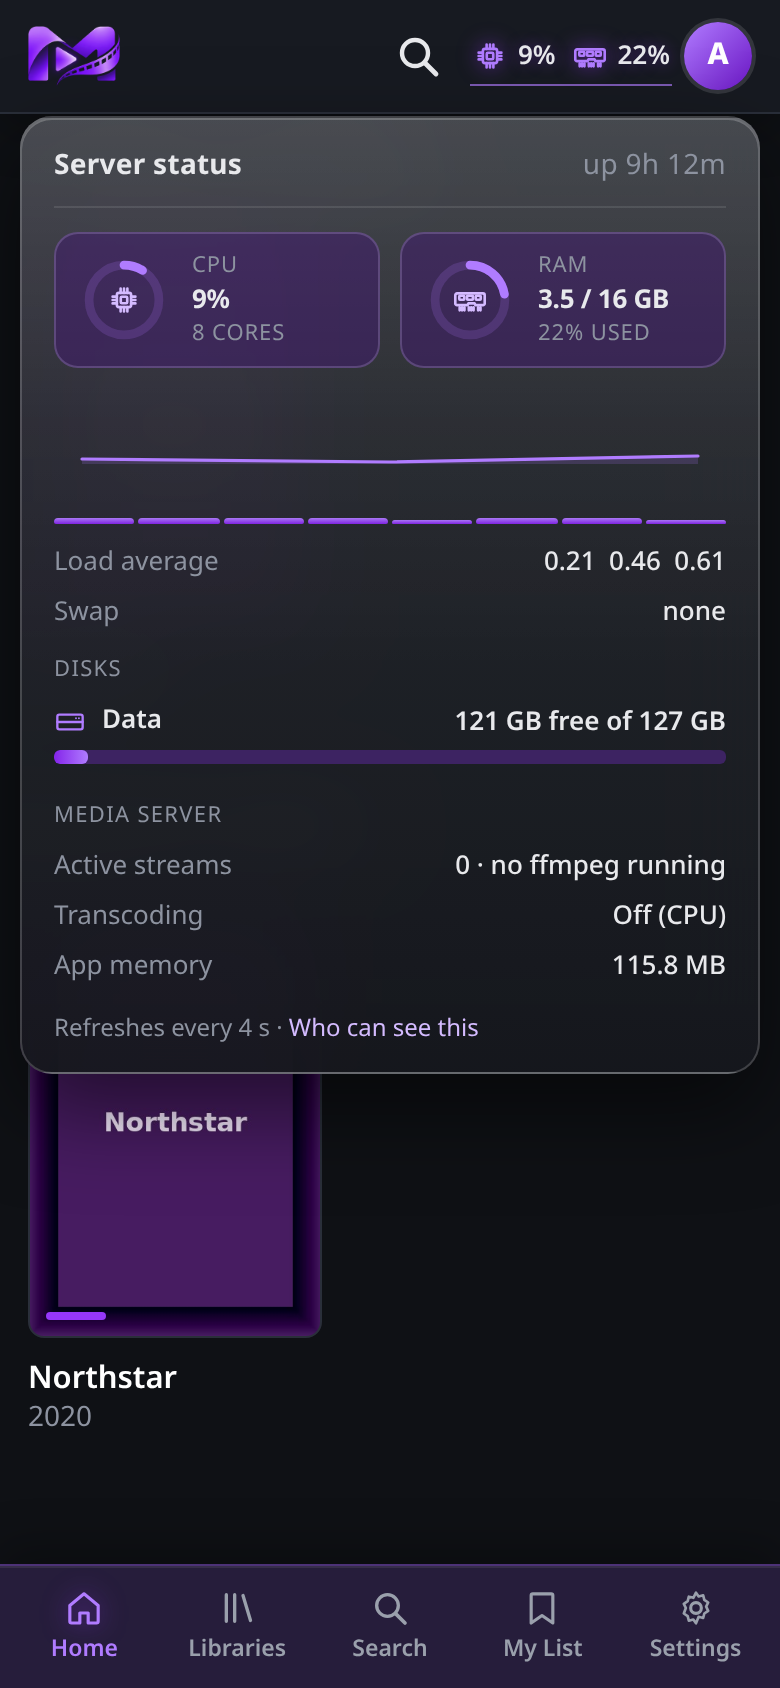
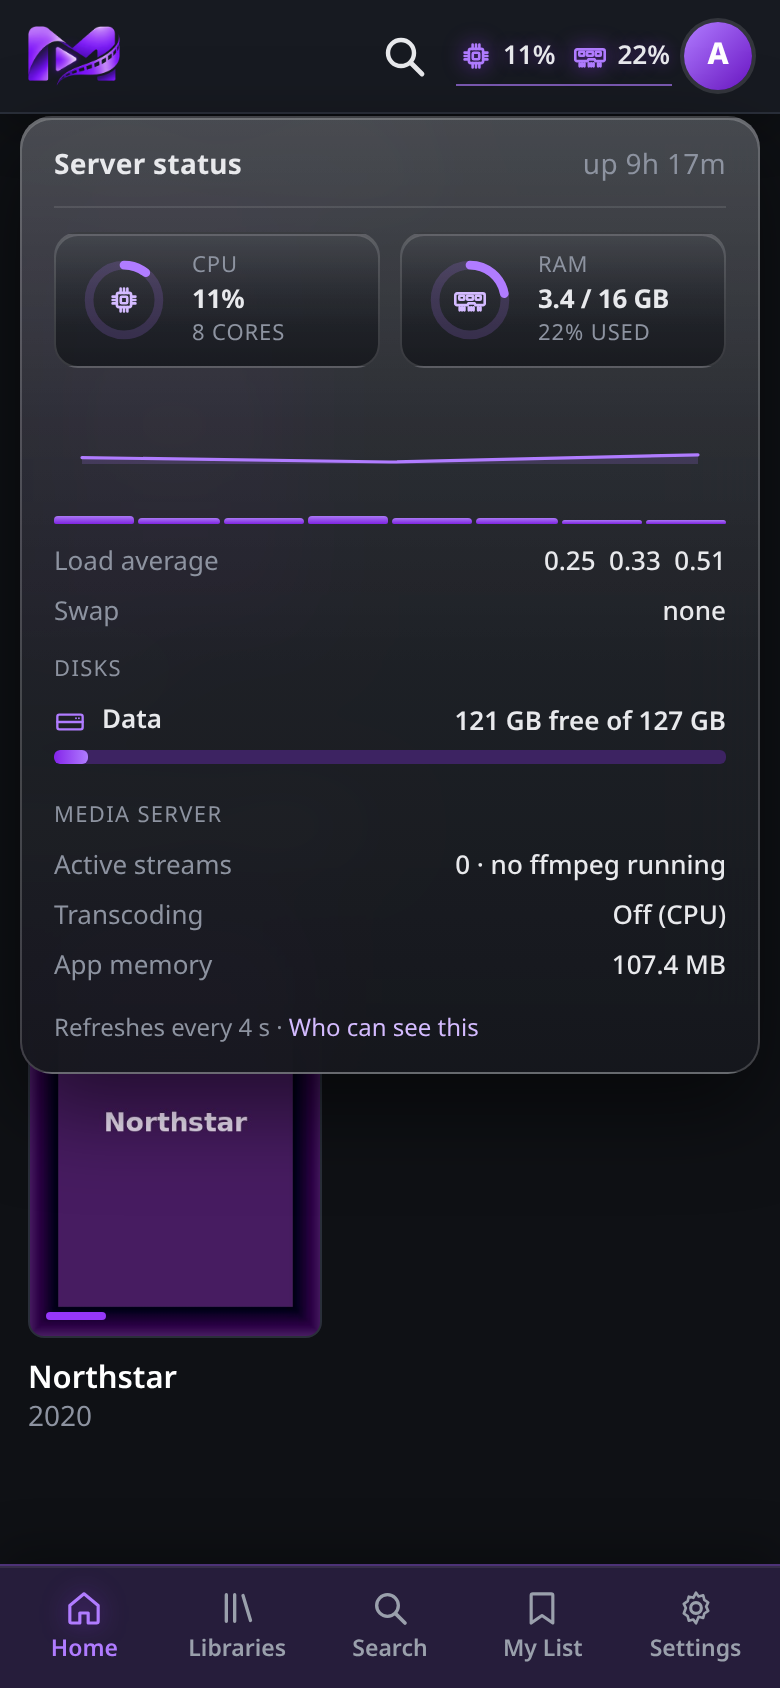
Movinite 2.5.1: glossy gray CPU and RAM tiles in the status panel
The status-panel gauge tiles use the same charcoal-to-graphite gloss as the
dropdowns. Rings, dots and usage bars keep their purple accents.

diff --git a/server/app/static/style.css b/server/app/static/style.css
@@ -515,7 +515,8 @@ b.warn,.ss-spark.warn{color:var(--warn)} b.bad,.ss-spark.bad{color:var(--bad)}
 .ss-h{display:flex;justify-content:space-between;align-items:baseline;margin:0 0 12px;padding:0 0 10px;font-size:14px;letter-spacing:.01em;border-bottom:1px solid var(--pop-divider)}
 .ss-gauges{display:grid;grid-template-columns:1fr 1fr;gap:10px;margin:0 0 12px}
 .ss-gauge{display:flex;align-items:center;gap:10px;min-width:0;padding:8px 10px;border-radius:12px;
-  background:color-mix(in srgb, rgba(20,10,36,.45) 70%, var(--acc) 18%);border:1px solid color-mix(in srgb, var(--acc2) 22%, transparent)}
+  background:linear-gradient(180deg,rgba(255,255,255,.10) 0%,rgba(255,255,255,.03) 40%,transparent 70%),linear-gradient(180deg,rgba(43,46,53,.78) 0%,rgba(22,24,29,.88) 100%);
+  border:1px solid rgba(255,255,255,.14);box-shadow:inset 0 1px 0 rgba(255,255,255,.16)}
 .ss-gauge .ss-ring-wrap{flex:none}
 .ss-gauge .ss-g-txt{display:flex;flex-direction:column;gap:1px;min-width:0}
 .ss-gauge .ss-g-txt span{color:var(--muted);font-size:11px;text-transform:uppercase;letter-spacing:.04em}

diff --git a/server/tests/test_v251.py b/server/tests/test_v251.py
@@ -65,6 +65,27 @@ def test_glossy_gray_tokens():
           "the TV slide-out keeps its own panel (it is not this component)")
 
 
+def test_gauge_tiles_are_gray():
+    i = CSS.index(".ss-gauge{")
+    chunk = CSS[i:i + 500]
+    check("43,46,53" in chunk and "22,24,29" in chunk,
+          "CPU and RAM tiles use the same charcoal-to-graphite fill")
+    check("rgba(20,10,36" not in chunk and "var(--acc)" not in chunk.split(".ss-gauge")[1][:280],
+          "the purple-tinted tile backgrounds are gone")
+    check("255,255,255" in chunk,
+          "the tiles have a light sheen or light border")
+    # rings, core bars and usage bars keep the purple accent
+    check("color:var(--acc-text)" in CSS[CSS.index(".ss-ring-wrap{position"):CSS.index(".ss-ring-wrap{position") + 120],
+          "the gauge rings stay purple")
+    bar = CSS[CSS.index(".ss-bar i{display:block;height:100%;background:linear-gradient"):]
+    bar = bar[:200]
+    check("var(--acc-fill)" in bar or "var(--acc-text)" in bar,
+          "usage bars keep the purple accent")
+    check("var(--acc-text)" in CSS[CSS.index(".ss-cores i{"):CSS.index(".ss-cores i{") + 200]
+          or "var(--acc-fill)" in CSS[CSS.index(".ss-cores i{"):CSS.index(".ss-cores i{") + 200],
+          "the load bars keep the purple accent")
+
+
 def test_exclusive_open_kept():
     check("function closeSiblingPops(" in JS, "closeSiblingPops is defined")
     sys = JS.split("function setSysOpen(")[1].split("function stopSysstat")[0]
@@ -90,6 +111,7 @@ if __name__ == "__main__":
     print("2.5.1 glossy gray popovers")
     test_version_and_schema()
     test_glossy_gray_tokens()
+    test_gauge_tiles_are_gray()
     test_exclusive_open_kept()
     test_docs()
     print("all ok")

diff --git a/server/README.md b/server/README.md
@@ -207,7 +207,7 @@ On a television, Up from the first row reaches the header. Left and Right move a
 
 **2.1.1:** a signed-out television shows only the phone-code (or password) sign-in screen, not the home chrome. Sign-in codes are reused until they expire (10 new codes per address per 10 minutes). The top bar uses the same dark color as the side menu.
 
-**2.5.1:** the profile menu and the server status popup (and the other page dropdowns that share the same chrome) use a glossy charcoal-to-graphite style, with a light sheen at the top, a frosted blur, and light-gray row hovers. The avatar and status dots keep their purple accents. Opening one menu still closes the others. No schema change and no new Android app. **2.5:** titles you play from a shared server appear in Continue watching and My List with their poster and resume position (web, phone and TV). If you also have a local copy, the two are one card. If the other server is offline, the card stays marked Offline and Play shows a message instead of an error. Schema 15; no new Android app. **2.4.4:** on phones, Play uses the in-page web player again (the same tap-to-show controls as before 2.4); the native ExoPlayer stays on Android TV. No server change. **2.4.3:** the native Android player can play again (HEVC fMP4 segments were crashing the server); on a source error it retries H.264 and then the in-page player. **2.4.2:** the profile menu and the server status popup (and the other page dropdowns) share one classy purple glass style, and opening one closes the other. **2.4.1:** the in-page player stats overlay shortens the GPU name (for example Arc A310) so Encoder no longer runs over Dropped on a phone, and the box is more see-through so more of the picture shows through. No new app is needed. **2.4:** the Android TV app plays video in a native ExoPlayer (not the web page). It reports real decoder and display capabilities so 4K HEVC, HDR and surround can Direct Play when the television supports them, and the on-screen controls include skip intro, seek thumbnails, Up Next, and audio / subtitle menus. The 2.0.2 app still works against this server, with the in-page player. **2.3:** Skip Intro and Skip Credits buttons appear when an opening or ending is detected (optional auto-skip in Settings > Account). Image subtitles (PGS / VobSub) are burned in on a transcode when you pick them; text subtitles stay soft. **2.2:** playback starts immediately when remux is not ready, 5.1 audio is kept, the seek bar can show thumbnails, an Up Next card counts down before the next episode, and a 4K television is not capped at 1080p just because the web view reports 1920×1080. HDR to SDR tone mapping on the GPU is available in Settings (off by default until it is checked on a real HDR film). The 2.0.2 Android TV app works as-is. **2.1.4:** the first Left from a row focuses the slim left rail; a second Left opens the slide-out. The For You / Recently Added / Libraries tabs and the rail icons take a visible focus and can be selected with the remote. Hero backdrops wait a beat and crossfade, and home-screen key handling is faster. Desktop and phone are unchanged, and opening a title still focuses Resume or Play at the top. **2.1.3:** the TV waits about 3 seconds between approval checks, backs off instead of showing “Too many checks,” and stops checking when you open the password form. The check limit is per code and address, and is large enough for a 10-minute code. **2.1.2:** the web header (search, poster sounds, server status, account button) is hidden on a television. Desktop and phone keep it. Search, Sign out and Settings stay in the slide-out menu. The TV tab bar is transparent over the backdrop. Moving the remote onto a tab or a menu item opens that view after a short pause (Sign out still needs OK). Opening a title focuses Resume or Play with the page scrolled to the top.
+**2.5.1:** the profile menu and the server status popup (and the other page dropdowns that share the same chrome) use a glossy charcoal-to-graphite style, with a light sheen at the top, a frosted blur, and light-gray row hovers. The CPU and RAM tiles in the status panel use the same glossy gray; the avatar, status dots, rings and usage bars keep their purple accents. Opening one menu still closes the others. No schema change and no new Android app. **2.5:** titles you play from a shared server appear in Continue watching and My List with their poster and resume position (web, phone and TV). If you also have a local copy, the two are one card. If the other server is offline, the card stays marked Offline and Play shows a message instead of an error. Schema 15; no new Android app. **2.4.4:** on phones, Play uses the in-page web player again (the same tap-to-show controls as before 2.4); the native ExoPlayer stays on Android TV. No server change. **2.4.3:** the native Android player can play again (HEVC fMP4 segments were crashing the server); on a source error it retries H.264 and then the in-page player. **2.4.2:** the profile menu and the server status popup (and the other page dropdowns) share one classy purple glass style, and opening one closes the other. **2.4.1:** the in-page player stats overlay shortens the GPU name (for example Arc A310) so Encoder no longer runs over Dropped on a phone, and the box is more see-through so more of the picture shows through. No new app is needed. **2.4:** the Android TV app plays video in a native ExoPlayer (not the web page). It reports real decoder and display capabilities so 4K HEVC, HDR and surround can Direct Play when the television supports them, and the on-screen controls include skip intro, seek thumbnails, Up Next, and audio / subtitle menus. The 2.0.2 app still works against this server, with the in-page player. **2.3:** Skip Intro and Skip Credits buttons appear when an opening or ending is detected (optional auto-skip in Settings > Account). Image subtitles (PGS / VobSub) are burned in on a transcode when you pick them; text subtitles stay soft. **2.2:** playback starts immediately when remux is not ready, 5.1 audio is kept, the seek bar can show thumbnails, an Up Next card counts down before the next episode, and a 4K television is not capped at 1080p just because the web view reports 1920×1080. HDR to SDR tone mapping on the GPU is available in Settings (off by default until it is checked on a real HDR film). The 2.0.2 Android TV app works as-is. **2.1.4:** the first Left from a row focuses the slim left rail; a second Left opens the slide-out. The For You / Recently Added / Libraries tabs and the rail icons take a visible focus and can be selected with the remote. Hero backdrops wait a beat and crossfade, and home-screen key handling is faster. Desktop and phone are unchanged, and opening a title still focuses Resume or Play at the top. **2.1.3:** the TV waits about 3 seconds between approval checks, backs off instead of showing “Too many checks,” and stops checking when you open the password form. The check limit is per code and address, and is large enough for a 10-minute code. **2.1.2:** the web header (search, poster sounds, server status, account button) is hidden on a television. Desktop and phone keep it. Search, Sign out and Settings stay in the slide-out menu. The TV tab bar is transparent over the backdrop. Moving the remote onto a tab or a menu item opens that view after a short pause (Sign out still needs OK). Opening a title focuses Resume or Play with the page scrolled to the top.
 
 On a TV, Movinite uses a Plex-style home: a large backdrop of the focused title, details and a short synopsis, a slim icon rail on the left that slides out into a full menu, tabs across the top, and rows of posters underneath. The menu lists your libraries as *Movies / NAS* (or the share's real name), and shared libraries from another server as *Movies / Harbor*. Desktop and phone layouts are unchanged. The 2.4 Android TV app adds a native player; a 2.0.2 app still works against this server (in-page player). The TV home layout still comes from the server.
 

diff --git a/server/CHANGELOG.md b/server/CHANGELOG.md
@@ -3,7 +3,7 @@
 ## 2.5.1 -- 2026-11-26
 A visual fix on top of 2.5: the profile menu and the server status dropdown (and the other page dropdowns that already shared that chrome) use a glossy charcoal-to-graphite style instead of the 2.4.2 purple glass. Schema stays at 15. No new Android app is needed.
 
-- **Glossy gray dropdowns.** The shared popover fill is a charcoal-to-graphite gradient (about #2b2e35 at the top to #16181d) with a faint white sheen across the top third, a 1px light highlight on the top edge, a frosted blur, a fine light border, and a soft shadow. Text stays readable. Hovered rows go light gray, not purple. The avatar and the status dots keep their purple accents. Opening one menu still closes the others. The TV slide-out is unchanged.
+- **Glossy gray dropdowns.** The shared popover fill is a charcoal-to-graphite gradient (about #2b2e35 at the top to #16181d) with a faint white sheen across the top third, a 1px light highlight on the top edge, a frosted blur, a fine light border, and a soft shadow. Text stays readable. Hovered rows go light gray, not purple. The avatar and the status dots keep their purple accents. Opening one menu still closes the others. The TV slide-out is unchanged. The CPU and RAM tiles inside the server status panel use the same glossy gray; the rings, dots and usage bars keep their purple accents.
 
 ## 2.5 -- 2026-11-26
 Watch progress for titles played from a shared (remote) server, on top of 2.4.4. Schema 15. No new Android app is needed — the phone, the TV app and the web UI all use the same progress API.
